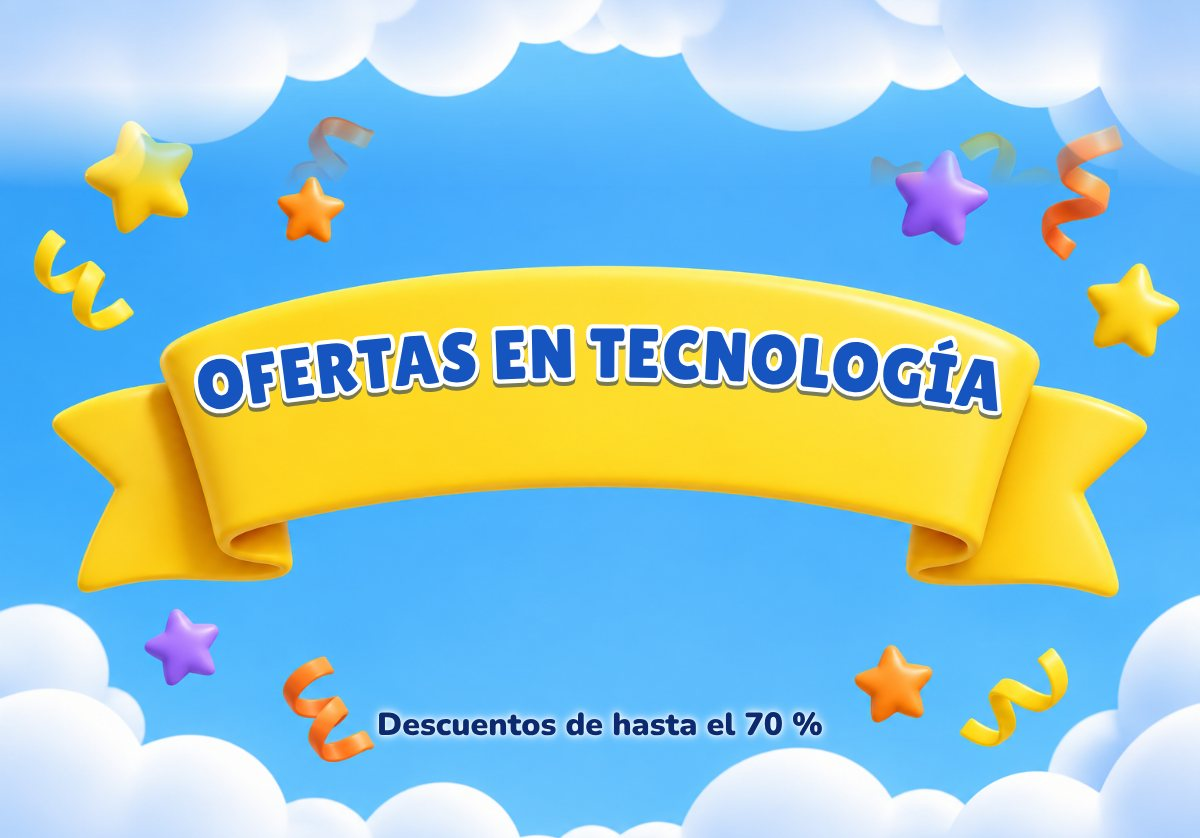
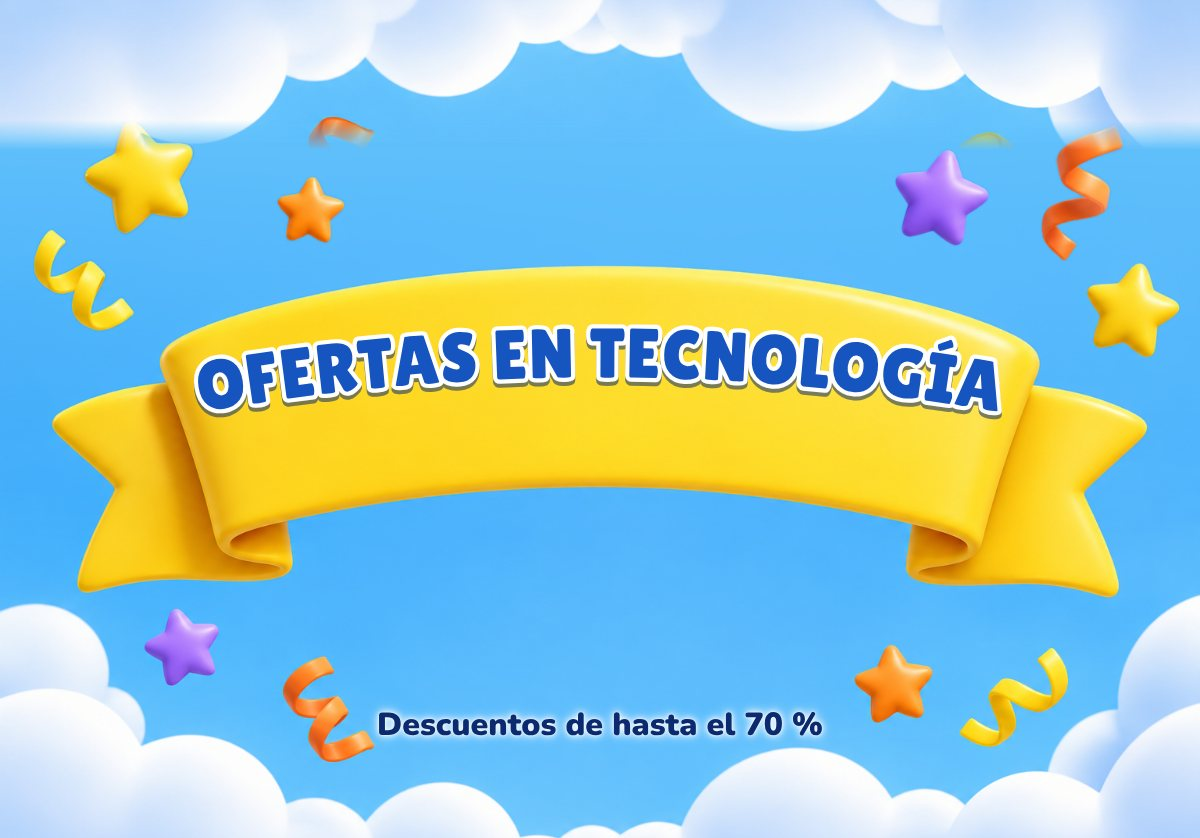
Uniones de nubes sin escalón, cielo uniforme y botones 3D en todos los productos
Claude-Session: https://claude.ai/code/session_014n8fruw4BUtYLKWozkJouR

Changed region(s): [[0.0, 0.0931, 0.3392, 0.3723], [0.7092, 0.0931, 1.0, 0.2482], [0.5858, 0.0931, 0.74, 0.1551]]

diff --git a/index.html b/index.html
@@ -19,48 +19,48 @@ body{margin:0;padding:0;background:#EEF3F9}
 <tr><td align="center" style="padding:10px 16px;font-family:Arial, Helvetica, sans-serif;font-size:12px;line-height:18px;color:#4A5878;background:#EEF3F9">
 <strong style="color:#0B2A6F">Publicidad</strong> · Ejercicio académico. Mercaviva es una marca ficticia; no es una comunicación oficial de Carrefour.<br>
 ¿No ves bien este email? <a href="{$url}" target="_blank" style="color:#0057B8;text-decoration:underline">Ábrelo en el navegador</a></td></tr>
-<tr><td style="padding:0"><a href="https://www.carrefour.es/lavadora-lg-f2x50s9tlb-9-kg-carga-frontal-1200-rpm-wifi-clase-a-blanco/VC4A-32514266/p?utm_source=newsletter&utm_medium=email&utm_campaign=black_friday_2026&utm_content=lavadora_lg" target="_blank"><img src="https://caarlosfdz.github.io/newsletter-mercaviva/bf-cover.jpg?v=10190827" width="600" alt="Mercaviva. Black Friday del 20 de octubre al 27 de noviembre: 50 % y 70 % de descuento en tecnología, electrodomésticos y alimentación" class="fluid" style="display:block;width:100%;max-width:600px;height:auto;border:0"></a></td></tr>
-<tr><td style="padding:0"><a href="https://www.carrefour.es/lavadora-lg-f2x50s9tlb-9-kg-carga-frontal-1200-rpm-wifi-clase-a-blanco/VC4A-32514266/p?utm_source=newsletter&utm_medium=email&utm_campaign=black_friday_2026&utm_content=lavadora_lg" target="_blank"><img src="https://caarlosfdz.github.io/newsletter-mercaviva/bf-p1.jpg?v=10190827" width="600" alt="Lavadora LG 9 kg: 164,70 €, antes 549 €, 70 % de descuento" class="fluid" style="display:block;width:100%;max-width:600px;height:auto;border:0"></a></td></tr>
-<tr><td style="padding:0"><img src="https://caarlosfdz.github.io/newsletter-mercaviva/bf-tit-tecnologia.jpg?v=10190827" width="600" alt="Ofertas en tecnología: descuentos de hasta el 70 %" class="fluid" style="display:block;width:100%;max-width:600px;height:auto;border:0"></td></tr>
+<tr><td style="padding:0"><a href="https://www.carrefour.es/lavadora-lg-f2x50s9tlb-9-kg-carga-frontal-1200-rpm-wifi-clase-a-blanco/VC4A-32514266/p?utm_source=newsletter&utm_medium=email&utm_campaign=black_friday_2026&utm_content=lavadora_lg" target="_blank"><img src="https://caarlosfdz.github.io/newsletter-mercaviva/bf-cover.jpg?v=10190835" width="600" alt="Mercaviva. Black Friday del 20 de octubre al 27 de noviembre: 50 % y 70 % de descuento en tecnología, electrodomésticos y alimentación" class="fluid" style="display:block;width:100%;max-width:600px;height:auto;border:0"></a></td></tr>
+<tr><td style="padding:0"><a href="https://www.carrefour.es/lavadora-lg-f2x50s9tlb-9-kg-carga-frontal-1200-rpm-wifi-clase-a-blanco/VC4A-32514266/p?utm_source=newsletter&utm_medium=email&utm_campaign=black_friday_2026&utm_content=lavadora_lg" target="_blank"><img src="https://caarlosfdz.github.io/newsletter-mercaviva/bf-p1.jpg?v=10190835" width="600" alt="Lavadora LG 9 kg: 164,70 €, antes 549 €, 70 % de descuento" class="fluid" style="display:block;width:100%;max-width:600px;height:auto;border:0"></a></td></tr>
+<tr><td style="padding:0"><img src="https://caarlosfdz.github.io/newsletter-mercaviva/bf-tit-tecnologia.jpg?v=10190835" width="600" alt="Ofertas en tecnología: descuentos de hasta el 70 %" class="fluid" style="display:block;width:100%;max-width:600px;height:auto;border:0"></td></tr>
 <tr><td style="padding:0"><table role="presentation" cellpadding="0" cellspacing="0" border="0" width="100%"><tr>
-<td class="col" width="300" valign="top" style="width:300px;vertical-align:top"><a href="https://www.carrefour.es/?utm_source=newsletter&utm_medium=email&utm_campaign=black_friday_2026&utm_content=producto6" target="_blank"><img src="https://caarlosfdz.github.io/newsletter-mercaviva/bf-p6.png?v=10190827" width="300" alt="Producto 6: 95,22 €, antes 218,99 €, −56,5 % y envío gratis" class="fluid" style="display:block;width:100%;max-width:300px;height:auto;border:0"></a>
-<div style="padding:4px 14px 26px"><table role="presentation" cellpadding="0" cellspacing="0" border="0" width="100%"><tr><td align="center" bgcolor="#0057B8" style="border-radius:10px;background:#0057B8">
-<a href="https://www.carrefour.es/?utm_source=newsletter&utm_medium=email&utm_campaign=black_friday_2026&utm_content=producto6" target="_blank" style="display:block;padding:14px 8px;font-family:Arial, Helvetica, sans-serif;font-size:16px;line-height:20px;font-weight:bold;color:#ffffff;text-decoration:none;text-align:center;border-radius:10px">Llévatelo ya</a></td></tr></table></div></td>
-<td class="col" width="300" valign="top" style="width:300px;vertical-align:top"><a href="https://www.carrefour.es/?utm_source=newsletter&utm_medium=email&utm_campaign=black_friday_2026&utm_content=producto2" target="_blank"><img src="https://caarlosfdz.github.io/newsletter-mercaviva/bf-p2.png?v=10190827" width="300" alt="Producto 2: 154,50 €, antes 309 €, −50 %" class="fluid" style="display:block;width:100%;max-width:300px;height:auto;border:0"></a>
-<div style="padding:4px 14px 26px"><table role="presentation" cellpadding="0" cellspacing="0" border="0" width="100%"><tr><td align="center" bgcolor="#0057B8" style="border-radius:10px;background:#0057B8">
-<a href="https://www.carrefour.es/?utm_source=newsletter&utm_medium=email&utm_campaign=black_friday_2026&utm_content=producto2" target="_blank" style="display:block;padding:14px 8px;font-family:Arial, Helvetica, sans-serif;font-size:16px;line-height:20px;font-weight:bold;color:#ffffff;text-decoration:none;text-align:center;border-radius:10px">Aprovecha el −50 %</a></td></tr></table></div></td></tr></table></td></tr>
+<td class="col" width="300" valign="top" style="width:300px;vertical-align:top"><a href="https://www.carrefour.es/?utm_source=newsletter&utm_medium=email&utm_campaign=black_friday_2026&utm_content=producto6" target="_blank"><img src="https://caarlosfdz.github.io/newsletter-mercaviva/bf-p6.png?v=10190835" width="300" alt="Producto 6: 95,22 €, antes 218,99 €, −56,5 % y envío gratis" class="fluid" style="display:block;width:100%;max-width:300px;height:auto;border:0"></a>
+<div style="padding:4px 14px 26px"><table role="presentation" cellpadding="0" cellspacing="0" border="0" width="100%"><tr><td align="center" bgcolor="#FFFFFF" style="border-radius:40px">
+<a href="https://www.carrefour.es/?utm_source=newsletter&utm_medium=email&utm_campaign=black_friday_2026&utm_content=producto6" target="_blank" style="display:block;text-decoration:none"><img src="https://caarlosfdz.github.io/newsletter-mercaviva/bf-btn-p6.png?v=10190835" width="270" alt="Llévatelo ya" class="fluid" style="display:block;width:100%;max-width:270px;height:auto;border:0;font-family:Arial, Helvetica, sans-serif;font-size:16px;font-weight:bold;line-height:52px;color:#0B2A6F;text-align:center"></a></td></tr></table></div></td>
+<td class="col" width="300" valign="top" style="width:300px;vertical-align:top"><a href="https://www.carrefour.es/?utm_source=newsletter&utm_medium=email&utm_campaign=black_friday_2026&utm_content=producto2" target="_blank"><img src="https://caarlosfdz.github.io/newsletter-mercaviva/bf-p2.png?v=10190835" width="300" alt="Producto 2: 154,50 €, antes 309 €, −50 %" class="fluid" style="display:block;width:100%;max-width:300px;height:auto;border:0"></a>
+<div style="padding:4px 14px 26px"><table role="presentation" cellpadding="0" cellspacing="0" border="0" width="100%"><tr><td align="center" bgcolor="#FFFFFF" style="border-radius:40px">
+<a href="https://www.carrefour.es/?utm_source=newsletter&utm_medium=email&utm_campaign=black_friday_2026&utm_content=producto2" target="_blank" style="display:block;text-decoration:none"><img src="https://caarlosfdz.github.io/newsletter-mercaviva/bf-btn-p2.png?v=10190835" width="270" alt="Aprovecha el −50 %" class="fluid" style="display:block;width:100%;max-width:270px;height:auto;border:0;font-family:Arial, Helvetica, sans-serif;font-size:16px;font-weight:bold;line-height:52px;color:#0B2A6F;text-align:center"></a></td></tr></table></div></td></tr></table></td></tr>
 <tr><td style="padding:0"><table role="presentation" cellpadding="0" cellspacing="0" border="0" width="100%"><tr>
-<td class="col" width="300" valign="top" style="width:300px;vertical-align:top"><a href="https://www.carrefour.es/?utm_source=newsletter&utm_medium=email&utm_campaign=black_friday_2026&utm_content=producto5" target="_blank"><img src="https://caarlosfdz.github.io/newsletter-mercaviva/bf-p5.png?v=10190827" width="300" alt="Producto 5: 4.877,62 €, antes 6.150,99 €, −20,7 %" class="fluid" style="display:block;width:100%;max-width:300px;height:auto;border:0"></a>
-<div style="padding:4px 14px 26px"><table role="presentation" cellpadding="0" cellspacing="0" border="0" width="100%"><tr><td align="center" bgcolor="#0057B8" style="border-radius:10px;background:#0057B8">
-<a href="https://www.carrefour.es/?utm_source=newsletter&utm_medium=email&utm_campaign=black_friday_2026&utm_content=producto5" target="_blank" style="display:block;padding:14px 8px;font-family:Arial, Helvetica, sans-serif;font-size:16px;line-height:20px;font-weight:bold;color:#ffffff;text-decoration:none;text-align:center;border-radius:10px">Ahorra 1.273 €</a></td></tr></table></div></td>
-<td class="col" width="300" valign="top" style="width:300px;vertical-align:top"><a href="https://www.carrefour.es/?utm_source=newsletter&utm_medium=email&utm_campaign=black_friday_2026&utm_content=producto3" target="_blank"><img src="https://caarlosfdz.github.io/newsletter-mercaviva/bf-p3.png?v=10190827" width="300" alt="Producto 3: súperchollo a 519 €" class="fluid" style="display:block;width:100%;max-width:300px;height:auto;border:0"></a>
-<div style="padding:4px 14px 26px"><table role="presentation" cellpadding="0" cellspacing="0" border="0" width="100%"><tr><td align="center" bgcolor="#0057B8" style="border-radius:10px;background:#0057B8">
-<a href="https://www.carrefour.es/?utm_source=newsletter&utm_medium=email&utm_campaign=black_friday_2026&utm_content=producto3" target="_blank" style="display:block;padding:14px 8px;font-family:Arial, Helvetica, sans-serif;font-size:16px;line-height:20px;font-weight:bold;color:#ffffff;text-decoration:none;text-align:center;border-radius:10px">Ver el súperchollo</a></td></tr></table></div></td></tr></table></td></tr>
+<td class="col" width="300" valign="top" style="width:300px;vertical-align:top"><a href="https://www.carrefour.es/?utm_source=newsletter&utm_medium=email&utm_campaign=black_friday_2026&utm_content=producto5" target="_blank"><img src="https://caarlosfdz.github.io/newsletter-mercaviva/bf-p5.png?v=10190835" width="300" alt="Producto 5: 4.877,62 €, antes 6.150,99 €, −20,7 %" class="fluid" style="display:block;width:100%;max-width:300px;height:auto;border:0"></a>
+<div style="padding:4px 14px 26px"><table role="presentation" cellpadding="0" cellspacing="0" border="0" width="100%"><tr><td align="center" bgcolor="#FFFFFF" style="border-radius:40px">
+<a href="https://www.carrefour.es/?utm_source=newsletter&utm_medium=email&utm_campaign=black_friday_2026&utm_content=producto5" target="_blank" style="display:block;text-decoration:none"><img src="https://caarlosfdz.github.io/newsletter-mercaviva/bf-btn-p5.png?v=10190835" width="270" alt="Ahorra 1.273 €" class="fluid" style="display:block;width:100%;max-width:270px;height:auto;border:0;font-family:Arial, Helvetica, sans-serif;font-size:16px;font-weight:bold;line-height:52px;color:#0B2A6F;text-align:center"></a></td></tr></table></div></td>
+<td class="col" width="300" valign="top" style="width:300px;vertical-align:top"><a href="https://www.carrefour.es/?utm_source=newsletter&utm_medium=email&utm_campaign=black_friday_2026&utm_content=producto3" target="_blank"><img src="https://caarlosfdz.github.io/newsletter-mercaviva/bf-p3.png?v=10190835" width="300" alt="Producto 3: súperchollo a 519 €" class="fluid" style="display:block;width:100%;max-width:300px;height:auto;border:0"></a>
+<div style="padding:4px 14px 26px"><table role="presentation" cellpadding="0" cellspacing="0" border="0" width="100%"><tr><td align="center" bgcolor="#FFFFFF" style="border-radius:40px">
+<a href="https://www.carrefour.es/?utm_source=newsletter&utm_medium=email&utm_campaign=black_friday_2026&utm_content=producto3" target="_blank" style="display:block;text-decoration:none"><img src="https://caarlosfdz.github.io/newsletter-mercaviva/bf-btn-p3.png?v=10190835" width="270" alt="Ver el súperchollo" class="fluid" style="display:block;width:100%;max-width:270px;height:auto;border:0;font-family:Arial, Helvetica, sans-serif;font-size:16px;font-weight:bold;line-height:52px;color:#0B2A6F;text-align:center"></a></td></tr></table></div></td></tr></table></td></tr>
 
 <tr><td style="padding:0"><table role="presentation" cellpadding="0" cellspacing="0" border="0" width="100%"><tr>
-<td class="col" width="300" valign="top" style="width:300px;vertical-align:top"><a href="https://www.carrefour.es/?utm_source=newsletter&utm_medium=email&utm_campaign=black_friday_2026&utm_content=producto4" target="_blank"><img src="https://caarlosfdz.github.io/newsletter-mercaviva/bf-p4.png?v=10190827" width="300" alt="Producto 4 en precompra: 59,90 €, antes 69,99 €, envío gratis" class="fluid" style="display:block;width:100%;max-width:300px;height:auto;border:0"></a>
-<div style="padding:4px 14px 26px"><table role="presentation" cellpadding="0" cellspacing="0" border="0" width="100%"><tr><td align="center" bgcolor="#0057B8" style="border-radius:10px;background:#0057B8">
-<a href="https://www.carrefour.es/?utm_source=newsletter&utm_medium=email&utm_campaign=black_friday_2026&utm_content=producto4" target="_blank" style="display:block;padding:14px 8px;font-family:Arial, Helvetica, sans-serif;font-size:16px;line-height:20px;font-weight:bold;color:#ffffff;text-decoration:none;text-align:center;border-radius:10px">Resérvalo ya</a></td></tr></table></div></td>
+<td class="col" width="300" valign="top" style="width:300px;vertical-align:top"><a href="https://www.carrefour.es/?utm_source=newsletter&utm_medium=email&utm_campaign=black_friday_2026&utm_content=producto4" target="_blank"><img src="https://caarlosfdz.github.io/newsletter-mercaviva/bf-p4.png?v=10190835" width="300" alt="Producto 4 en precompra: 59,90 €, antes 69,99 €, envío gratis" class="fluid" style="display:block;width:100%;max-width:300px;height:auto;border:0"></a>
+<div style="padding:4px 14px 26px"><table role="presentation" cellpadding="0" cellspacing="0" border="0" width="100%"><tr><td align="center" bgcolor="#FFFFFF" style="border-radius:40px">
+<a href="https://www.carrefour.es/?utm_source=newsletter&utm_medium=email&utm_campaign=black_friday_2026&utm_content=producto4" target="_blank" style="display:block;text-decoration:none"><img src="https://caarlosfdz.github.io/newsletter-mercaviva/bf-btn-p4.png?v=10190835" width="270" alt="Resérvalo ya" class="fluid" style="display:block;width:100%;max-width:270px;height:auto;border:0;font-family:Arial, Helvetica, sans-serif;font-size:16px;font-weight:bold;line-height:52px;color:#0B2A6F;text-align:center"></a></td></tr></table></div></td>
 <td class="col" width="300" valign="middle" style="width:300px;vertical-align:middle;padding:20px;font-family:Arial, Helvetica, sans-serif;color:#0B2A6F">
 <p style="margin:0 0 8px;font-size:20px;line-height:24px;font-weight:bold">Envío gratis</p>
 <p style="margin:0;font-size:15px;line-height:21px">En los productos marcados. Ofertas válidas del 20 de octubre al 27 de noviembre o hasta fin de existencias.</p></td></tr></table></td></tr>
-<tr><td style="padding:0"><img src="https://caarlosfdz.github.io/newsletter-mercaviva/bf-tit-compra.jpg?v=10190827" width="600" alt="Ofertas en tu compra: 3x2, 2.ª unidad al 50 % y precios imbatibles" class="fluid" style="display:block;width:100%;max-width:600px;height:auto;border:0"></td></tr>
+<tr><td style="padding:0"><img src="https://caarlosfdz.github.io/newsletter-mercaviva/bf-tit-compra.jpg?v=10190835" width="600" alt="Ofertas en tu compra: 3x2, 2.ª unidad al 50 % y precios imbatibles" class="fluid" style="display:block;width:100%;max-width:600px;height:auto;border:0"></td></tr>
 <tr><td style="padding:0"><table role="presentation" cellpadding="0" cellspacing="0" border="0" width="100%"><tr>
-<td class="col" width="300" valign="top" style="width:300px;vertical-align:top"><a href="https://www.carrefour.es/?utm_source=newsletter&utm_medium=email&utm_campaign=black_friday_2026&utm_content=aceite_coosur" target="_blank"><img src="https://caarlosfdz.github.io/newsletter-mercaviva/bf-p9.png?v=10190827" width="300" alt="Aceite Coosur Serie Oro 1 l: 3x2, el litro sale a 4,13 €" class="fluid" style="display:block;width:100%;max-width:300px;height:auto;border:0"></a>
-<div style="padding:4px 14px 26px"><table role="presentation" cellpadding="0" cellspacing="0" border="0" width="100%"><tr><td align="center" bgcolor="#0057B8" style="border-radius:10px;background:#0057B8">
-<a href="https://www.carrefour.es/?utm_source=newsletter&utm_medium=email&utm_campaign=black_friday_2026&utm_content=aceite_coosur" target="_blank" style="display:block;padding:14px 8px;font-family:Arial, Helvetica, sans-serif;font-size:16px;line-height:20px;font-weight:bold;color:#ffffff;text-decoration:none;text-align:center;border-radius:10px">Llévate 3, paga 2</a></td></tr></table></div></td>
-<td class="col" width="300" valign="top" style="width:300px;vertical-align:top"><a href="https://www.carrefour.es/?utm_source=newsletter&utm_medium=email&utm_campaign=black_friday_2026&utm_content=aceite_la_espanola" target="_blank"><img src="https://caarlosfdz.github.io/newsletter-mercaviva/bf-p10.png?v=10190827" width="300" alt="Aceite La Española suave 1 l: 3x2, el litro sale a 3,66 €" class="fluid" style="display:block;width:100%;max-width:300px;height:auto;border:0"></a>
-<div style="padding:4px 14px 26px"><table role="presentation" cellpadding="0" cellspacing="0" border="0" width="100%"><tr><td align="center" bgcolor="#0057B8" style="border-radius:10px;background:#0057B8">
-<a href="https://www.carrefour.es/?utm_source=newsletter&utm_medium=email&utm_campaign=black_friday_2026&utm_content=aceite_la_espanola" target="_blank" style="display:block;padding:14px 8px;font-family:Arial, Helvetica, sans-serif;font-size:16px;line-height:20px;font-weight:bold;color:#ffffff;text-decoration:none;text-align:center;border-radius:10px">Aprovecha el 3x2</a></td></tr></table></div></td></tr></table></td></tr>
+<td class="col" width="300" valign="top" style="width:300px;vertical-align:top"><a href="https://www.carrefour.es/?utm_source=newsletter&utm_medium=email&utm_campaign=black_friday_2026&utm_content=aceite_coosur" target="_blank"><img src="https://caarlosfdz.github.io/newsletter-mercaviva/bf-p9.png?v=10190835" width="300" alt="Aceite Coosur Serie Oro 1 l: 3x2, el litro sale a 4,13 €" class="fluid" style="display:block;width:100%;max-width:300px;height:auto;border:0"></a>
+<div style="padding:4px 14px 26px"><table role="presentation" cellpadding="0" cellspacing="0" border="0" width="100%"><tr><td align="center" bgcolor="#FFFFFF" style="border-radius:40px">
+<a href="https://www.carrefour.es/?utm_source=newsletter&utm_medium=email&utm_campaign=black_friday_2026&utm_content=aceite_coosur" target="_blank" style="display:block;text-decoration:none"><img src="https://caarlosfdz.github.io/newsletter-mercaviva/bf-btn-p9.png?v=10190835" width="270" alt="Llévate 3, paga 2" class="fluid" style="display:block;width:100%;max-width:270px;height:auto;border:0;font-family:Arial, Helvetica, sans-serif;font-size:16px;font-weight:bold;line-height:52px;color:#0B2A6F;text-align:center"></a></td></tr></table></div></td>
+<td class="col" width="300" valign="top" style="width:300px;vertical-align:top"><a href="https://www.carrefour.es/?utm_source=newsletter&utm_medium=email&utm_campaign=black_friday_2026&utm_content=aceite_la_espanola" target="_blank"><img src="https://caarlosfdz.github.io/newsletter-mercaviva/bf-p10.png?v=10190835" width="300" alt="Aceite La Española suave 1 l: 3x2, el litro sale a 3,66 €" class="fluid" style="display:block;width:100%;max-width:300px;height:auto;border:0"></a>
+<div style="padding:4px 14px 26px"><table role="presentation" cellpadding="0" cellspacing="0" border="0" width="100%"><tr><td align="center" bgcolor="#FFFFFF" style="border-radius:40px">
+<a href="https://www.carrefour.es/?utm_source=newsletter&utm_medium=email&utm_campaign=black_friday_2026&utm_content=aceite_la_espanola" target="_blank" style="display:block;text-decoration:none"><img src="https://caarlosfdz.github.io/newsletter-mercaviva/bf-btn-p10.png?v=10190835" width="270" alt="Aprovecha el 3x2" class="fluid" style="display:block;width:100%;max-width:270px;height:auto;border:0;font-family:Arial, Helvetica, sans-serif;font-size:16px;font-weight:bold;line-height:52px;color:#0B2A6F;text-align:center"></a></td></tr></table></div></td></tr></table></td></tr>
 <tr><td style="padding:0"><table role="presentation" cellpadding="0" cellspacing="0" border="0" width="100%"><tr>
-<td class="col" width="300" valign="top" style="width:300px;vertical-align:top"><a href="https://www.carrefour.es/?utm_source=newsletter&utm_medium=email&utm_campaign=black_friday_2026&utm_content=salmon_ahumado" target="_blank"><img src="https://caarlosfdz.github.io/newsletter-mercaviva/bf-p7.png?v=10190827" width="300" alt="Salmón ahumado Extra 100 g: 2.ª unidad al 50 %, cada una a 2,77 €" class="fluid" style="display:block;width:100%;max-width:300px;height:auto;border:0"></a>
-<div style="padding:4px 14px 26px"><table role="presentation" cellpadding="0" cellspacing="0" border="0" width="100%"><tr><td align="center" bgcolor="#0057B8" style="border-radius:10px;background:#0057B8">
-<a href="https://www.carrefour.es/?utm_source=newsletter&utm_medium=email&utm_campaign=black_friday_2026&utm_content=salmon_ahumado" target="_blank" style="display:block;padding:14px 8px;font-family:Arial, Helvetica, sans-serif;font-size:16px;line-height:20px;font-weight:bold;color:#ffffff;text-decoration:none;text-align:center;border-radius:10px">Añadir a la cesta</a></td></tr></table></div></td>
-<td class="col" width="300" valign="top" style="width:300px;vertical-align:top"><a href="https://www.carrefour.es/?utm_source=newsletter&utm_medium=email&utm_campaign=black_friday_2026&utm_content=lubina" target="_blank"><img src="https://caarlosfdz.github.io/newsletter-mercaviva/bf-p8.png?v=10190827" width="300" alt="Lubina 600 g aprox.: 5,39 €, antes 5,97 €" class="fluid" style="display:block;width:100%;max-width:300px;height:auto;border:0"></a>
-<div style="padding:4px 14px 26px"><table role="presentation" cellpadding="0" cellspacing="0" border="0" width="100%"><tr><td align="center" bgcolor="#0057B8" style="border-radius:10px;background:#0057B8">
-<a href="https://www.carrefour.es/?utm_source=newsletter&utm_medium=email&utm_campaign=black_friday_2026&utm_content=lubina" target="_blank" style="display:block;padding:14px 8px;font-family:Arial, Helvetica, sans-serif;font-size:16px;line-height:20px;font-weight:bold;color:#ffffff;text-decoration:none;text-align:center;border-radius:10px">Quiero esta lubina</a></td></tr></table></div></td></tr></table></td></tr>
+<td class="col" width="300" valign="top" style="width:300px;vertical-align:top"><a href="https://www.carrefour.es/?utm_source=newsletter&utm_medium=email&utm_campaign=black_friday_2026&utm_content=salmon_ahumado" target="_blank"><img src="https://caarlosfdz.github.io/newsletter-mercaviva/bf-p7.png?v=10190835" width="300" alt="Salmón ahumado Extra 100 g: 2.ª unidad al 50 %, cada una a 2,77 €" class="fluid" style="display:block;width:100%;max-width:300px;height:auto;border:0"></a>
+<div style="padding:4px 14px 26px"><table role="presentation" cellpadding="0" cellspacing="0" border="0" width="100%"><tr><td align="center" bgcolor="#FFFFFF" style="border-radius:40px">
+<a href="https://www.carrefour.es/?utm_source=newsletter&utm_medium=email&utm_campaign=black_friday_2026&utm_content=salmon_ahumado" target="_blank" style="display:block;text-decoration:none"><img src="https://caarlosfdz.github.io/newsletter-mercaviva/bf-btn-p7.png?v=10190835" width="270" alt="Añadir a la cesta" class="fluid" style="display:block;width:100%;max-width:270px;height:auto;border:0;font-family:Arial, Helvetica, sans-serif;font-size:16px;font-weight:bold;line-height:52px;color:#0B2A6F;text-align:center"></a></td></tr></table></div></td>
+<td class="col" width="300" valign="top" style="width:300px;vertical-align:top"><a href="https://www.carrefour.es/?utm_source=newsletter&utm_medium=email&utm_campaign=black_friday_2026&utm_content=lubina" target="_blank"><img src="https://caarlosfdz.github.io/newsletter-mercaviva/bf-p8.png?v=10190835" width="300" alt="Lubina 600 g aprox.: 5,39 €, antes 5,97 €" class="fluid" style="display:block;width:100%;max-width:300px;height:auto;border:0"></a>
+<div style="padding:4px 14px 26px"><table role="presentation" cellpadding="0" cellspacing="0" border="0" width="100%"><tr><td align="center" bgcolor="#FFFFFF" style="border-radius:40px">
+<a href="https://www.carrefour.es/?utm_source=newsletter&utm_medium=email&utm_campaign=black_friday_2026&utm_content=lubina" target="_blank" style="display:block;text-decoration:none"><img src="https://caarlosfdz.github.io/newsletter-mercaviva/bf-btn-p8.png?v=10190835" width="270" alt="Quiero esta lubina" class="fluid" style="display:block;width:100%;max-width:270px;height:auto;border:0;font-family:Arial, Helvetica, sans-serif;font-size:16px;font-weight:bold;line-height:52px;color:#0B2A6F;text-align:center"></a></td></tr></table></div></td></tr></table></td></tr>
 <tr><td align="center" style="padding:10px 20px 6px"><a href="https://www.mercaviva.es/?utm_source=newsletter&utm_medium=email&utm_campaign=black_friday_2026&utm_content=footer" target="_blank" style="font-family:Arial, Helvetica, sans-serif;font-size:16px;font-weight:bold;color:#0057B8;text-decoration:none">www.mercaviva.es</a></td></tr>
-<tr><td align="center" style="padding:8px 20px 18px"><table role="presentation" cellpadding="0" cellspacing="0" border="0"><tr><td style="padding:0 6px"><a href="https://www.mercaviva.es/redes/instagram" target="_blank"><img src="https://caarlosfdz.github.io/newsletter-mercaviva/bf-ico-instagram.png?v=10190827" width="40" height="40" alt="Instagram" style="display:block;border:0;width:40px;height:40px"></a></td><td style="padding:0 6px"><a href="https://www.mercaviva.es/redes/facebook" target="_blank"><img src="https://caarlosfdz.github.io/newsletter-mercaviva/bf-ico-facebook.png?v=10190827" width="40" height="40" alt="Facebook" style="display:block;border:0;width:40px;height:40px"></a></td><td style="padding:0 6px"><a href="https://www.mercaviva.es/redes/tiktok" target="_blank"><img src="https://caarlosfdz.github.io/newsletter-mercaviva/bf-ico-tiktok.png?v=10190827" width="40" height="40" alt="TikTok" style="display:block;border:0;width:40px;height:40px"></a></td><td style="padding:0 6px"><a href="https://www.mercaviva.es/redes/youtube" target="_blank"><img src="https://caarlosfdz.github.io/newsletter-mercaviva/bf-ico-youtube.png?v=10190827" width="40" height="40" alt="YouTube" style="display:block;border:0;width:40px;height:40px"></a></td><td style="padding:0 6px"><a href="https://www.mercaviva.es/redes/x" target="_blank"><img src="https://caarlosfdz.github.io/newsletter-mercaviva/bf-ico-x.png?v=10190827" width="40" height="40" alt="X" style="display:block;border:0;width:40px;height:40px"></a></td></tr></table></td></tr>
+<tr><td align="center" style="padding:8px 20px 18px"><table role="presentation" cellpadding="0" cellspacing="0" border="0"><tr><td style="padding:0 6px"><a href="https://www.mercaviva.es/redes/instagram" target="_blank"><img src="https://caarlosfdz.github.io/newsletter-mercaviva/bf-ico-instagram.png?v=10190835" width="40" height="40" alt="Instagram" style="display:block;border:0;width:40px;height:40px"></a></td><td style="padding:0 6px"><a href="https://www.mercaviva.es/redes/facebook" target="_blank"><img src="https://caarlosfdz.github.io/newsletter-mercaviva/bf-ico-facebook.png?v=10190835" width="40" height="40" alt="Facebook" style="display:block;border:0;width:40px;height:40px"></a></td><td style="padding:0 6px"><a href="https://www.mercaviva.es/redes/tiktok" target="_blank"><img src="https://caarlosfdz.github.io/newsletter-mercaviva/bf-ico-tiktok.png?v=10190835" width="40" height="40" alt="TikTok" style="display:block;border:0;width:40px;height:40px"></a></td><td style="padding:0 6px"><a href="https://www.mercaviva.es/redes/youtube" target="_blank"><img src="https://caarlosfdz.github.io/newsletter-mercaviva/bf-ico-youtube.png?v=10190835" width="40" height="40" alt="YouTube" style="display:block;border:0;width:40px;height:40px"></a></td><td style="padding:0 6px"><a href="https://www.mercaviva.es/redes/x" target="_blank"><img src="https://caarlosfdz.github.io/newsletter-mercaviva/bf-ico-x.png?v=10190835" width="40" height="40" alt="X" style="display:block;border:0;width:40px;height:40px"></a></td></tr></table></td></tr>
 <tr><td style="padding:16px 24px 26px;font-family:Arial, Helvetica, sans-serif;font-size:12px;line-height:18px;color:#4A5878;background:#EEF3F9">
 <p style="margin:0 0 10px"><strong style="color:#0B2A6F">Condiciones de las promociones.</strong> Válidas del 20/10/2026 al 27/11/2026 o hasta fin de existencias. <strong>3x2:</strong> al comprar 3 unidades del mismo producto, la de menor precio sale gratis. <strong>2.ª ud. al 50 %:</strong> descuento del 50 % en la segunda unidad del mismo producto. <strong>Envío gratis:</strong> solo en los productos indicados y en envíos a la península. Precios con IVA incluido. Descuentos calculados sobre el precio anterior indicado.</p>
 <p style="margin:0 0 10px">Recibes este email porque estás suscrito a la newsletter de Mercaviva. Remitente: Mercaviva Supermercados, S.A. (empresa ficticia), C/ Ejemplo, 1, 28000 Madrid. Consulta nuestra <a href="https://www.mercaviva.es/privacidad" target="_blank" style="color:#0057B8;text-decoration:underline">política de privacidad</a> o <a href="{$unsubscribe}" target="_blank" style="color:#0057B8;text-decoration:underline">date de baja</a> cuando quieras.</p>
